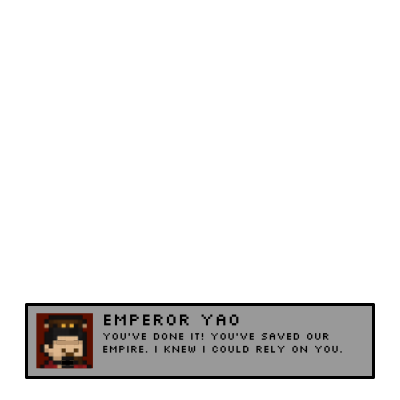
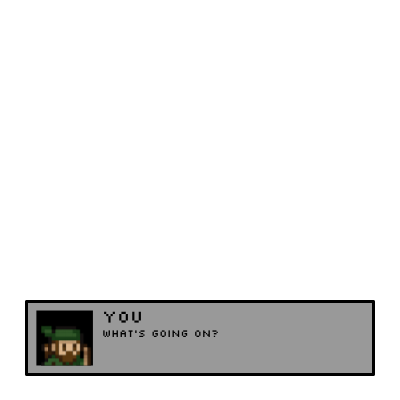
g

Changed region(s): [[0.06, 0.75, 0.93, 0.96]]

diff --git a/src/graphics/MySketch.java b/src/graphics/MySketch.java
@@ -14,7 +14,9 @@ public class MySketch extends PApplet {
     public boolean showInfo;
     int stage = 0;
     PImage stage1, stage2, stage3, stage4, stage5, stage6, stage7; // stage images
-    PImage box1, box2, box3, box4, box4b, box5, box6, box7, box8, box9, box10, box11, box11b, box11c, box11d, box12, box13; //dialog box images
+    PImage box1, box2, box3, box4, box4b, box5, box6, box7, box8, box9, box10, box11, box11b, box11c, box11d, box12, box13,
+           box14, box15, box16, box17, box18, box19, box20, box21, box22, box23, box24, box25, box26; //dialog box images
+    private Sun sun1, sun2, sun3, sun4, sun5, sun6, sun7, sun8, sun9, sun10;
     Wall box;
     int dialogBox = 0;
     boolean mouseHandled = false;
@@ -42,7 +44,7 @@ public class MySketch extends PApplet {
         stage2 = loadImage("images/stage2.png");
         stage3 = loadImage("images/stage3.png");
         stage4 = loadImage("images/stage4.png");
-//        stage5 = loadImage("images/stage5.png");
+        stage5 = loadImage("images/stage5.png");
 //        stage6 = loadImage("images/stage6.png");
 //        stage7 = loadImage("images/stage7.png");
 //        stage8 = loadImage("images/stage8.png");
@@ -62,12 +64,28 @@ public class MySketch extends PApplet {
         box9 = loadImage("images/box9.png");
         box10 = loadImage("images/box10.png");
         box11 = loadImage("images/box11.png");
-        box11b = loadImage("images/box11.1.png");
-        box11c = loadImage("images/box11.2.png");
-        box11d = loadImage("images/box11.3.png");
         box12 = loadImage("images/box12.png");
         box13 = loadImage("images/box13.png");
+        box14 = loadImage("images/box14.png");
+        box15 = loadImage("images/box15.png");
+        box16 = loadImage("images/box16.png");
+        box17 = loadImage("images/box17.png");
+        box18 = loadImage("images/box18.png");
+        box19 = loadImage("images/box19.png");
+        box20 = loadImage("images/box20.png");
+        box21 = loadImage("images/box21.png");
+        box22 = loadImage("images/box21.png");
         
+        sun1 = new Sun(this, 40, 40, "images/sun.png");
+        sun2 = new Sun(this, 40, 90, "images/sun.png");
+        sun3 = new Sun(this, 40, 150, "images/sun.png");
+        sun4 = new Sun(this, 40, 200, "images/sun.png");
+        sun5 = new Sun(this, 40, 250, "images/sun.png");
+        sun6 = new Sun(this, 40, 300, "images/sun.png");
+        sun7 = new Sun(this, 40, 350, "images/sun.png");
+        sun8 = new Sun(this, 40, 400, "images/sun.png");
+        sun9 = new Sun(this, 40, 450, "images/sun.png");
+        sun10 = new Sun(this, 40, 500, "images/sun.png");
     }
     
     public void draw() {
@@ -162,7 +180,8 @@ public class MySketch extends PApplet {
             } // end if
             
             // go to next level
-            if (char1.isCollidingWith(box)) {
+            // only allow advance if player finished dialog
+            if (char1.isCollidingWith(box) && dialogBox == 2) {
                 stage = 3;
                 char1.moveTo(200, 300); // move char to bottom
             }
@@ -243,50 +262,56 @@ public class MySketch extends PApplet {
             } // close if
             
             // change stage if user leaves the room
-            if (char1.isCollidingWith(box)) {
+            // only allow advance if player finished dialog
+            if (char1.isCollidingWith(box) && dialogBox == 12) {
                 stage = 4;
-                char1.moveTo(200, 380); // move char to bottom
+                char1.moveTo(200, 290); // move char to bottom
             } // end if
         }
         
         //////////////////////STAGE 4//////////////////////////////
         if (stage == 4) {
             // player boundaries
-            char1.moveConstraint(3);
+            char1.moveConstraint(4);
             
             // load background
             image(stage4, 0, 0);
-            
-            // hitbox to move to next stage
-            box = new Wall(this, 380, 380, 10, 10);
-            box.draw();
 
-                char1.draw();
+            char1.draw();
             
             // activate dialog
-            if (char1.isCollidingWith(emperor)) {
+            if (char1.y() == 270) {
                 switch (dialogBox) {
                     case 12:
-                        image(box11b, 0, 0);
-                        break;
-                    case 13:
-                        image(box11c, 0, 0);
-                        break;
-                    case 14:
-                        image(box11d, 0, 0);
-                        break;
-                    case 15:
                         image(box12, 0, 0);
                         break;
-                    case 16:
+                    case 13:
                         image(box13, 0, 0);
+                        break;
+                    case 14:
+                        image(box14, 0, 0);
+                        break;
+                    case 15:
+                        image(box15, 0, 0);
+                        break;
+                    case 16:
+                        image(box16, 0, 0);
+                        break;
+                    case 17:
+                        image(box17, 0, 0);
+                        break;
+                    case 18:
+                        image(box18, 0, 0);
+                        break;
+                    case 19:
+                        image(box19, 0, 0);
                         break;
                 } //end switch
                 
                 // code to update dialogBox
                 // doesn't let it update if dialog has finished
                 // mouseHandled ensures clicks don't carry over to next dialog box
-                if (mousePressed && !mouseHandled && dialogBox < 12) {
+                if (mousePressed && !mouseHandled && dialogBox < 20) {
                     dialogBox++;
                     mouseHandled = true;
                 }
@@ -296,8 +321,41 @@ public class MySketch extends PApplet {
             } // close if
             
             // change stage if user leaves the room
-            if (char1.isCollidingWith(box)) {
-                stage = 3;
+            if (char1.x() > 370) {
+                stage = 5;
+                char1.moveTo(200, 290); // move char to bottom
+            } // end if
+        } // end if
+        
+        //////////////////////STAGE 5//////////////////////////////
+        if (stage == 5) {
+            // player boundaries
+            char1.moveConstraint(4);
+            
+            // load background
+            image(stage5, 0, 0);
+            
+            // draw suns
+            sun1.draw();
+            sun2.draw();
+            sun3.draw();
+            
+            char1.draw();
+                
+            // code to update dialogBox
+            // doesn't let it update if dialog has finished
+            // mouseHandled ensures clicks don't carry over to next dialog box
+            if (mousePressed && !mouseHandled && dialogBox < 20) {
+                dialogBox++;
+                mouseHandled = true;
+            }
+            if (!mousePressed) {
+                mouseHandled = false;
+            }
+            
+            // change stage if user leaves the room
+            if (char1.x() > 390) {
+                stage = 5;
                 char1.moveTo(200, 380); // move char to bottom
             } // end if
         } // end if

diff --git a/src/graphics/Sun.java b/src/graphics/Sun.java
@@ -14,20 +14,9 @@ import processing.core.PImage;
 
 public class Sun {
     private int x, y;
-    private int age;
     private int width, height;
     private PApplet app;
     private PImage image;
-    
-    public Sun(PApplet p, int x, int y, int age, String imagePath) {
-        this.app = p;
-        this.x = x;
-        this.y = y;
-        this.age = age;
-        this.image = app.loadImage(imagePath);
-        this.width = image.width;
-        this.height = image.height;
-    }
     
     public Sun(PApplet p, int x, int y, String imagePath) {
         this.app = p;
@@ -64,12 +53,12 @@ public class Sun {
         return height;
     }
     
-    public boolean isCollidingWith(Sun other) {
+    public boolean isCollidingWith(Arrow other) {
        // Check if the bounding boxes of the two persons intersect
-       boolean isLeftOfOtherRight = x < other.x() + other.width;
-       boolean isRightOfOtherLeft = x + width > other.x;
-       boolean isAboveOtherBottom = y < other.y() + other.height;
-       boolean isBelowOtherTop = y + height > other.y;
+       boolean isLeftOfOtherRight = x < other.x() + other.width();
+       boolean isRightOfOtherLeft = x + width > other.x();
+       boolean isAboveOtherBottom = y < other.y() + other.height();
+       boolean isBelowOtherTop = y + height > other.y();
 
        return isLeftOfOtherRight && isRightOfOtherLeft 
               && isAboveOtherBottom && isBelowOtherTop;
@@ -77,20 +66,11 @@ public class Sun {
     
     public void moveConstraint(int stage) {
         switch (stage) {
-            case 1:
-                x = constrain(x, 40, app.width - 80);
-                y = constrain(y, 80, app.height - 90);
-                break;
-            case 2:
-                x = constrain(x, 0, app.width - 16);
-                y = constrain(y, 320, app.height - 20);
-                break;
-            case 3:
+            case 5:
                 x = constrain(x, 20, app.width - 10);
-                y = constrain(y, 20, app.height-20);
+                y = constrain(y, 20, app.height - 20);
                 break;
         }
-        
     }
     
     public void draw() {

diff --git a/src/graphics/Arrow.java b/src/graphics/Arrow.java
@@ -44,6 +44,14 @@ public class Arrow {
         return y;
     }
     
+    public int width() {
+        return width;
+    }
+    
+    public int height() {
+        return height;
+    }
+    
     public boolean isCollidingWith(Sun other) {
        // Check if the bounding boxes of the two persons intersect
        boolean isLeftOfOtherRight = x < other.x() + other.width();
@@ -54,27 +62,6 @@ public class Arrow {
        return isLeftOfOtherRight && isRightOfOtherLeft 
               && isAboveOtherBottom && isBelowOtherTop;
     }
-
-    public boolean isClicked(int mouseX, int mouseY) {
-        // calculates distance from mouse click to center
-        // of image since (x,y) of image is positioned at the top left corner
-        // we use x+(image.pixelWidth/2), y+(image.pixelHeight/2)) to get center
-        int centerX = x + (image.pixelWidth / 2);
-        int centerY = y + (image.pixelHeight / 2);
-        float d = PApplet.dist(mouseX, mouseY, centerX, centerY);
-
-        // gives us the dimensions of the image 32px by 32px
-        System.out.println("image height=" + image.pixelHeight);
-        System.out.println("image width=" + image.pixelWidth);
-        
-        // give x and y value
-        System.out.println(x);
-        System.out.println(y);
-
-        // returns true if mouse clicked is within 16px from the center of image
-        // we use 16px because the image is 32px by 32px
-        return d < 16;
-    }   
     
     public void draw() {
         app.image(image, x, y);

diff --git a/src/graphics/Person.java b/src/graphics/Person.java
@@ -127,6 +127,10 @@ public class Person {
                 x = constrain(x, 20, app.width - 10);
                 y = constrain(y, 20, app.height-20);
                 break;
+            case 4:
+                x = constrain(x, 20, app.width - 20);
+                y = constrain(y, 270, app.height - 100);
+                break;
         }
         
     }
